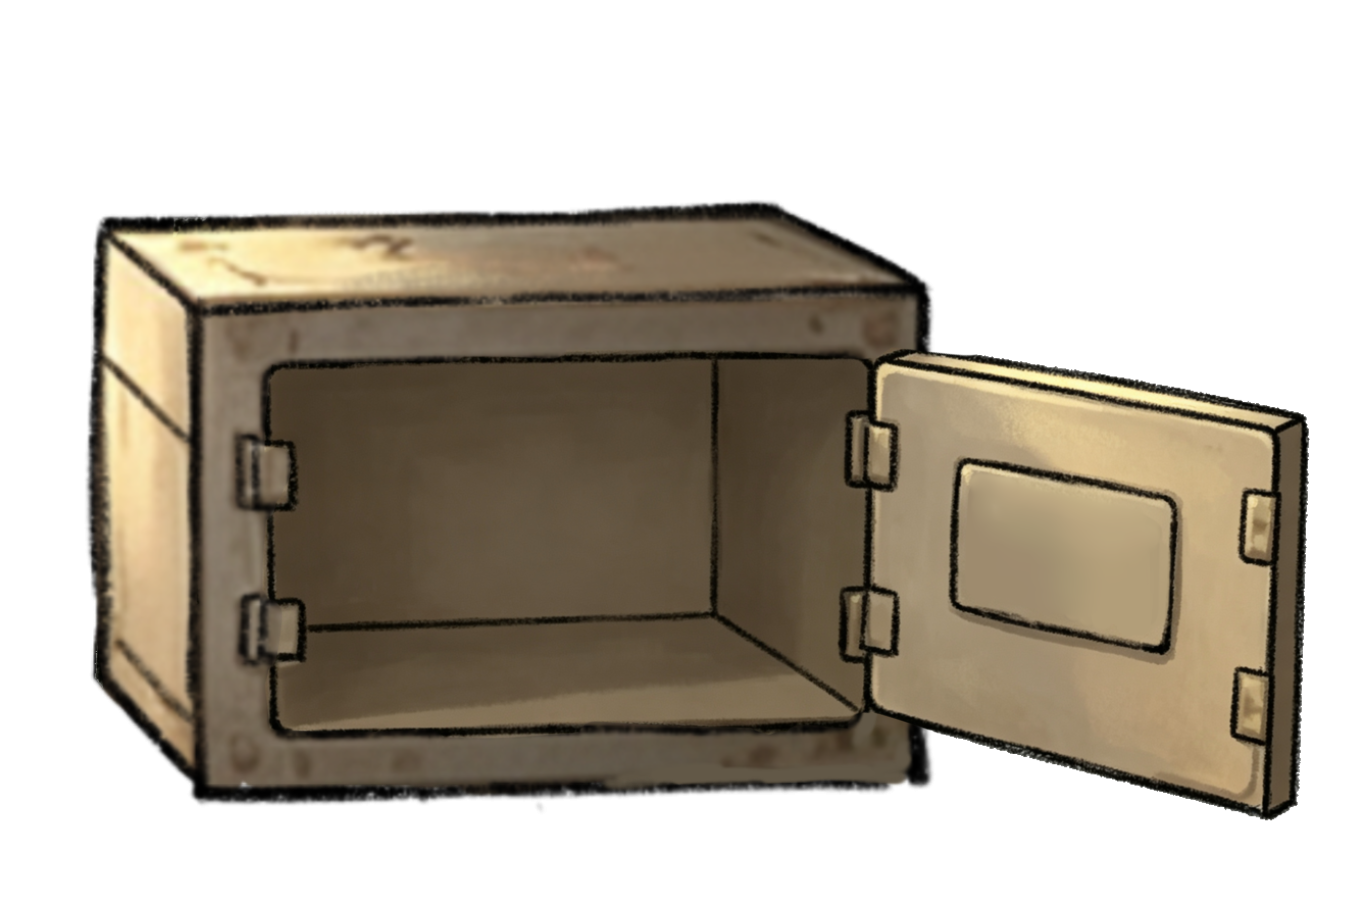
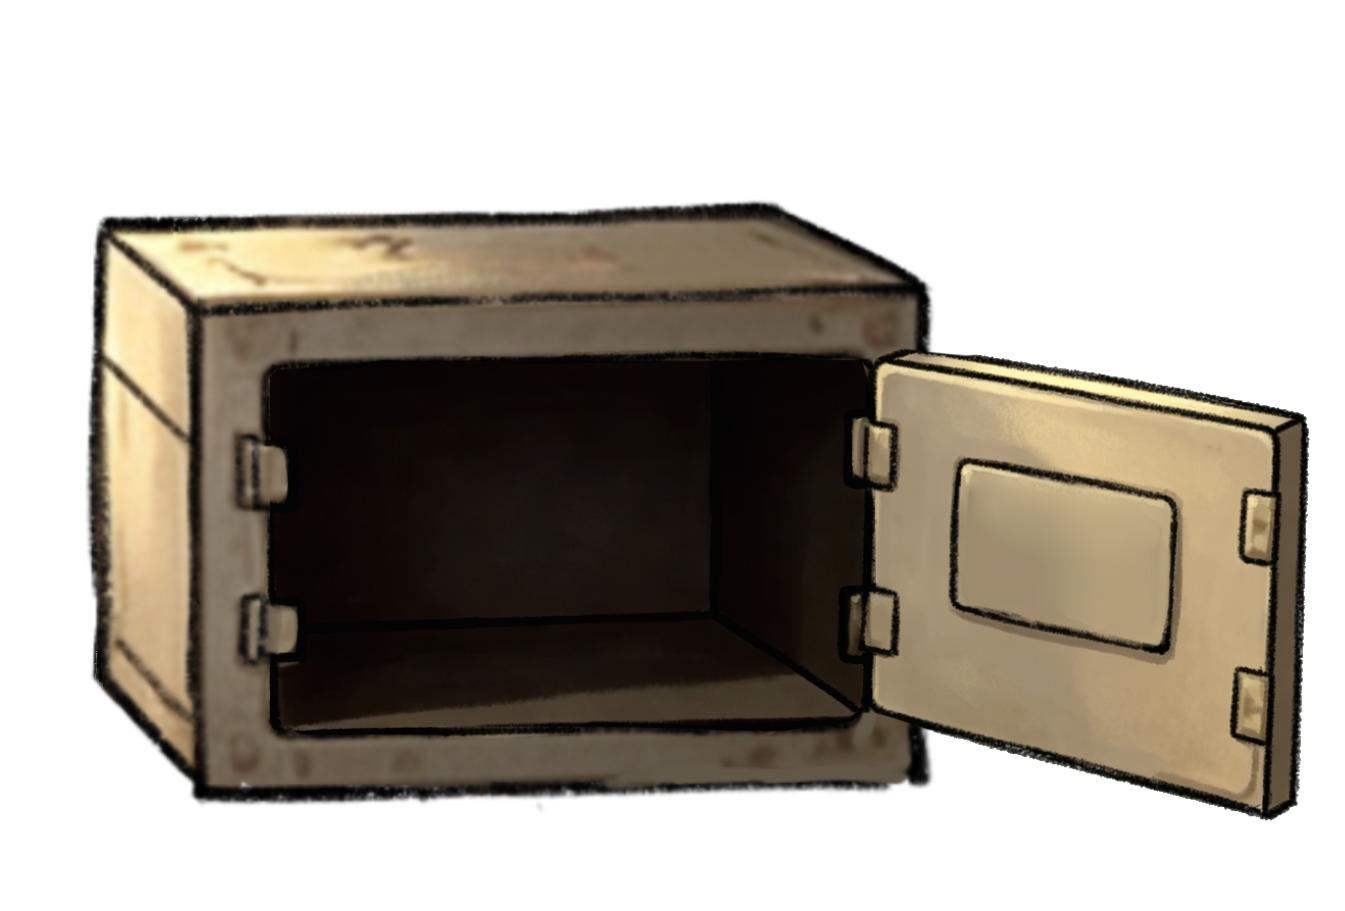
场景运行的时候保存状态
每次开始游戏会重新开始。

Changed region(s): [[0.1874, 0.3688, 0.6558, 0.8299]]

diff --git a/Long-Night-Glimmer-Project/Assets/script/Utilities/SceneStateManager.cs b/Long-Night-Glimmer-Project/Assets/script/Utilities/SceneStateManager.cs
@@ -30,7 +30,8 @@ public class SceneStateManager : MonoBehaviour
 
     private void Start()
     {
-        // 监听场景加载完成事件
+       
+       // 监听场景加载完成事件
         SceneManager.sceneLoaded += OnSceneLoaded;
     }
 
@@ -119,5 +120,37 @@ public class SceneStateManager : MonoBehaviour
         // 只打印日志，不做实际隐藏/显示
         // 实际显示/隐藏由 InsidePanel.Show() 控制
         Debug.Log($"[RestoreUIItems] 场景: {sceneName}, 已保存 {pickedUpItems.Count} 条记录");
+    }
+
+
+    //=================================================
+    // 组合锁状态
+    private Dictionary<string, bool> comboSavedSlots = new Dictionary<string, bool>();
+
+    public void SetComboSlotState(string sceneName, string key, bool isFilled)
+    {
+        string fullKey = $"{sceneName}_{key}";
+        comboSavedSlots[fullKey] = isFilled;
+    }
+
+    public bool GetComboSlotState(string sceneName, string key)
+    {
+        string fullKey = $"{sceneName}_{key}";
+        return comboSavedSlots.ContainsKey(fullKey) && comboSavedSlots[fullKey];
+    }
+    //=================================================
+
+
+    // 场景物品拾取状态
+    private Dictionary<string, bool> pickedUpSceneItems = new Dictionary<string, bool>();
+
+    public void SavePickupItemState(string itemId, bool isPickedUp)
+    {
+        pickedUpSceneItems[itemId] = isPickedUp;
+    }
+
+    public bool IsPickupItemPickedUp(string itemId)
+    {
+        return pickedUpSceneItems.ContainsKey(itemId) && pickedUpSceneItems[itemId];
     }
 }

diff --git a/Long-Night-Glimmer-Project/Assets/script/Interaction/InteractableObject.cs b/Long-Night-Glimmer-Project/Assets/script/Interaction/InteractableObject.cs
@@ -79,6 +79,8 @@ public class InteractableObject : MonoBehaviour
     public string clickableItemDetailDescription;
 
 
+   
+
     private void Start()
     {
         UpdateVisual();
@@ -321,7 +323,14 @@ public class InteractableObject : MonoBehaviour
             closedState.SetActive(!isOpen);
         if (openState != null)
             openState.SetActive(isOpen);
+
+      
     }
+    private bool HasUnpickedItems()
+    {
+        return hasKey || hasClip || hasKey2 || hasGem1 || hasGem2 || hasstone || hasBoard;
+    }
+
 
     private void SaveState()
     {
